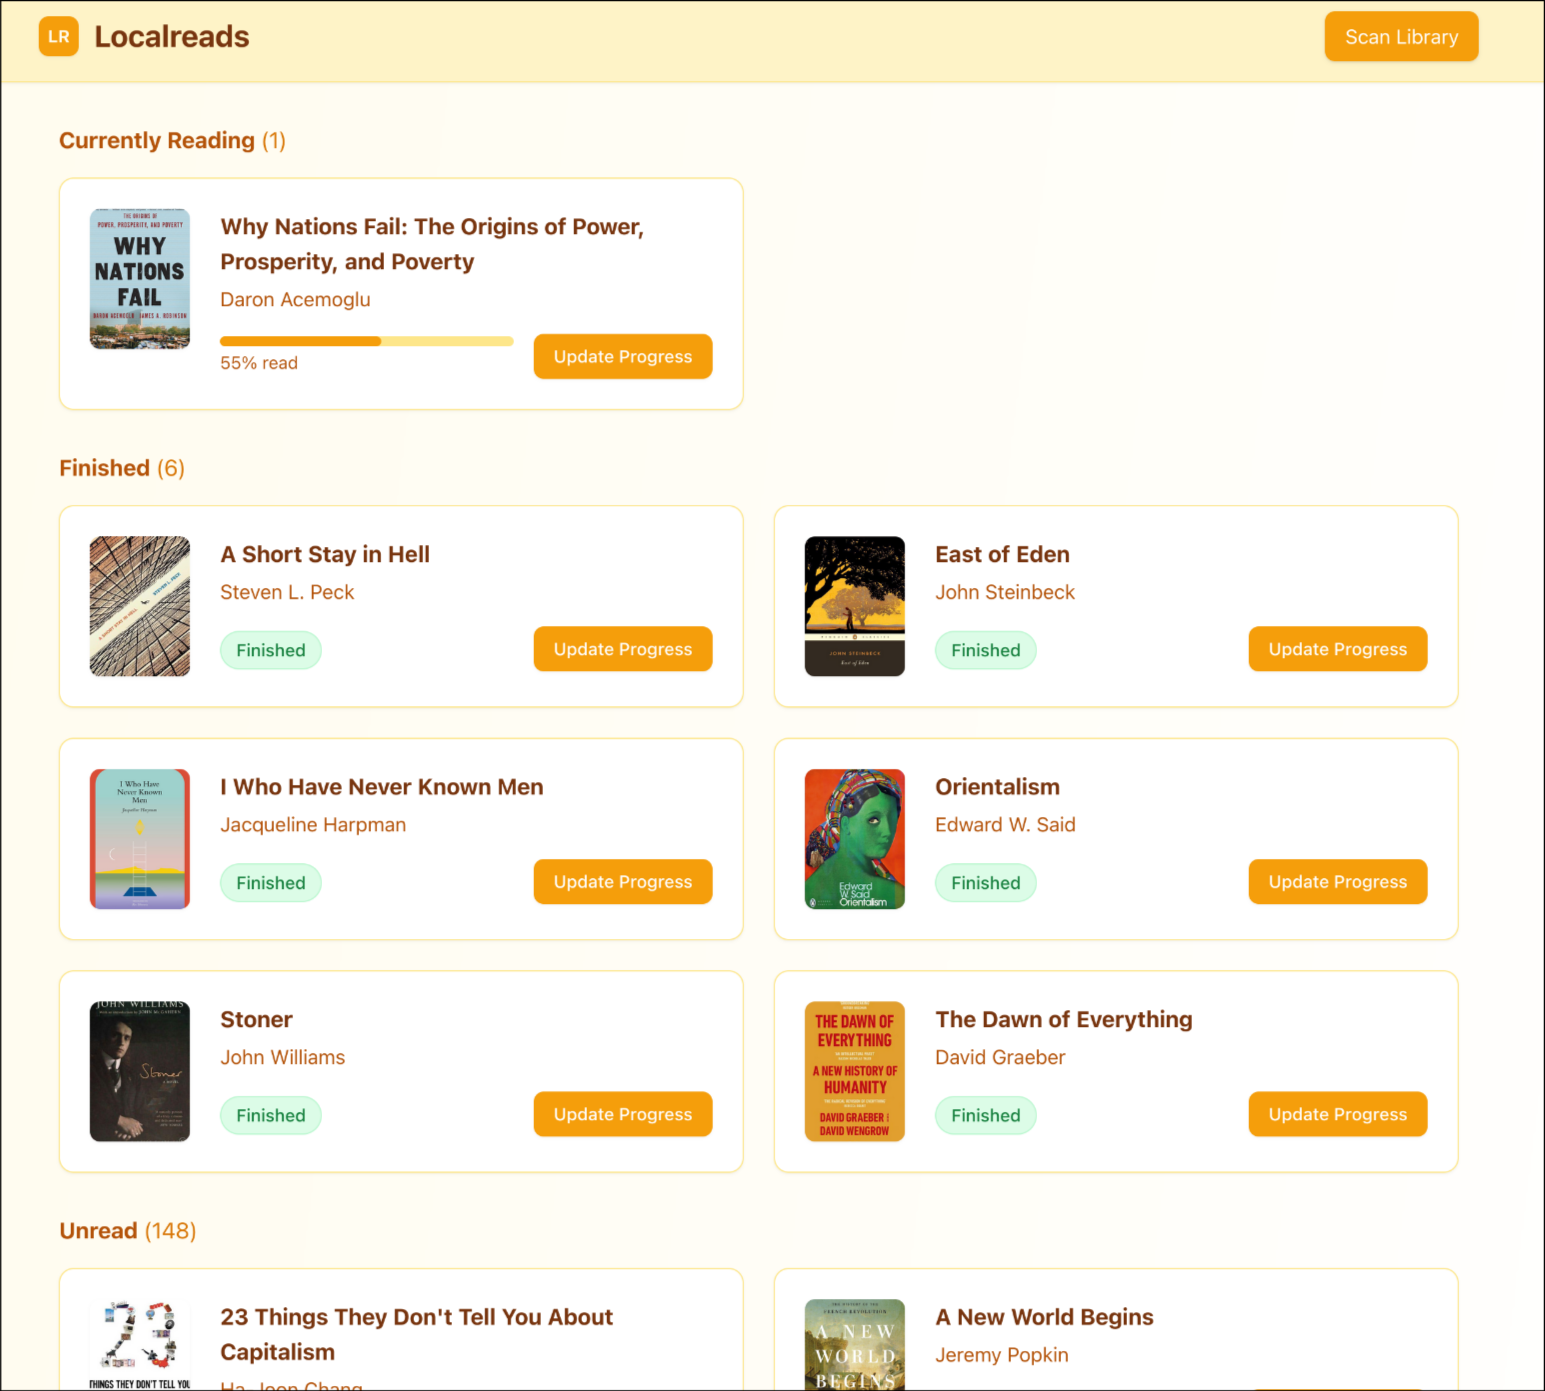
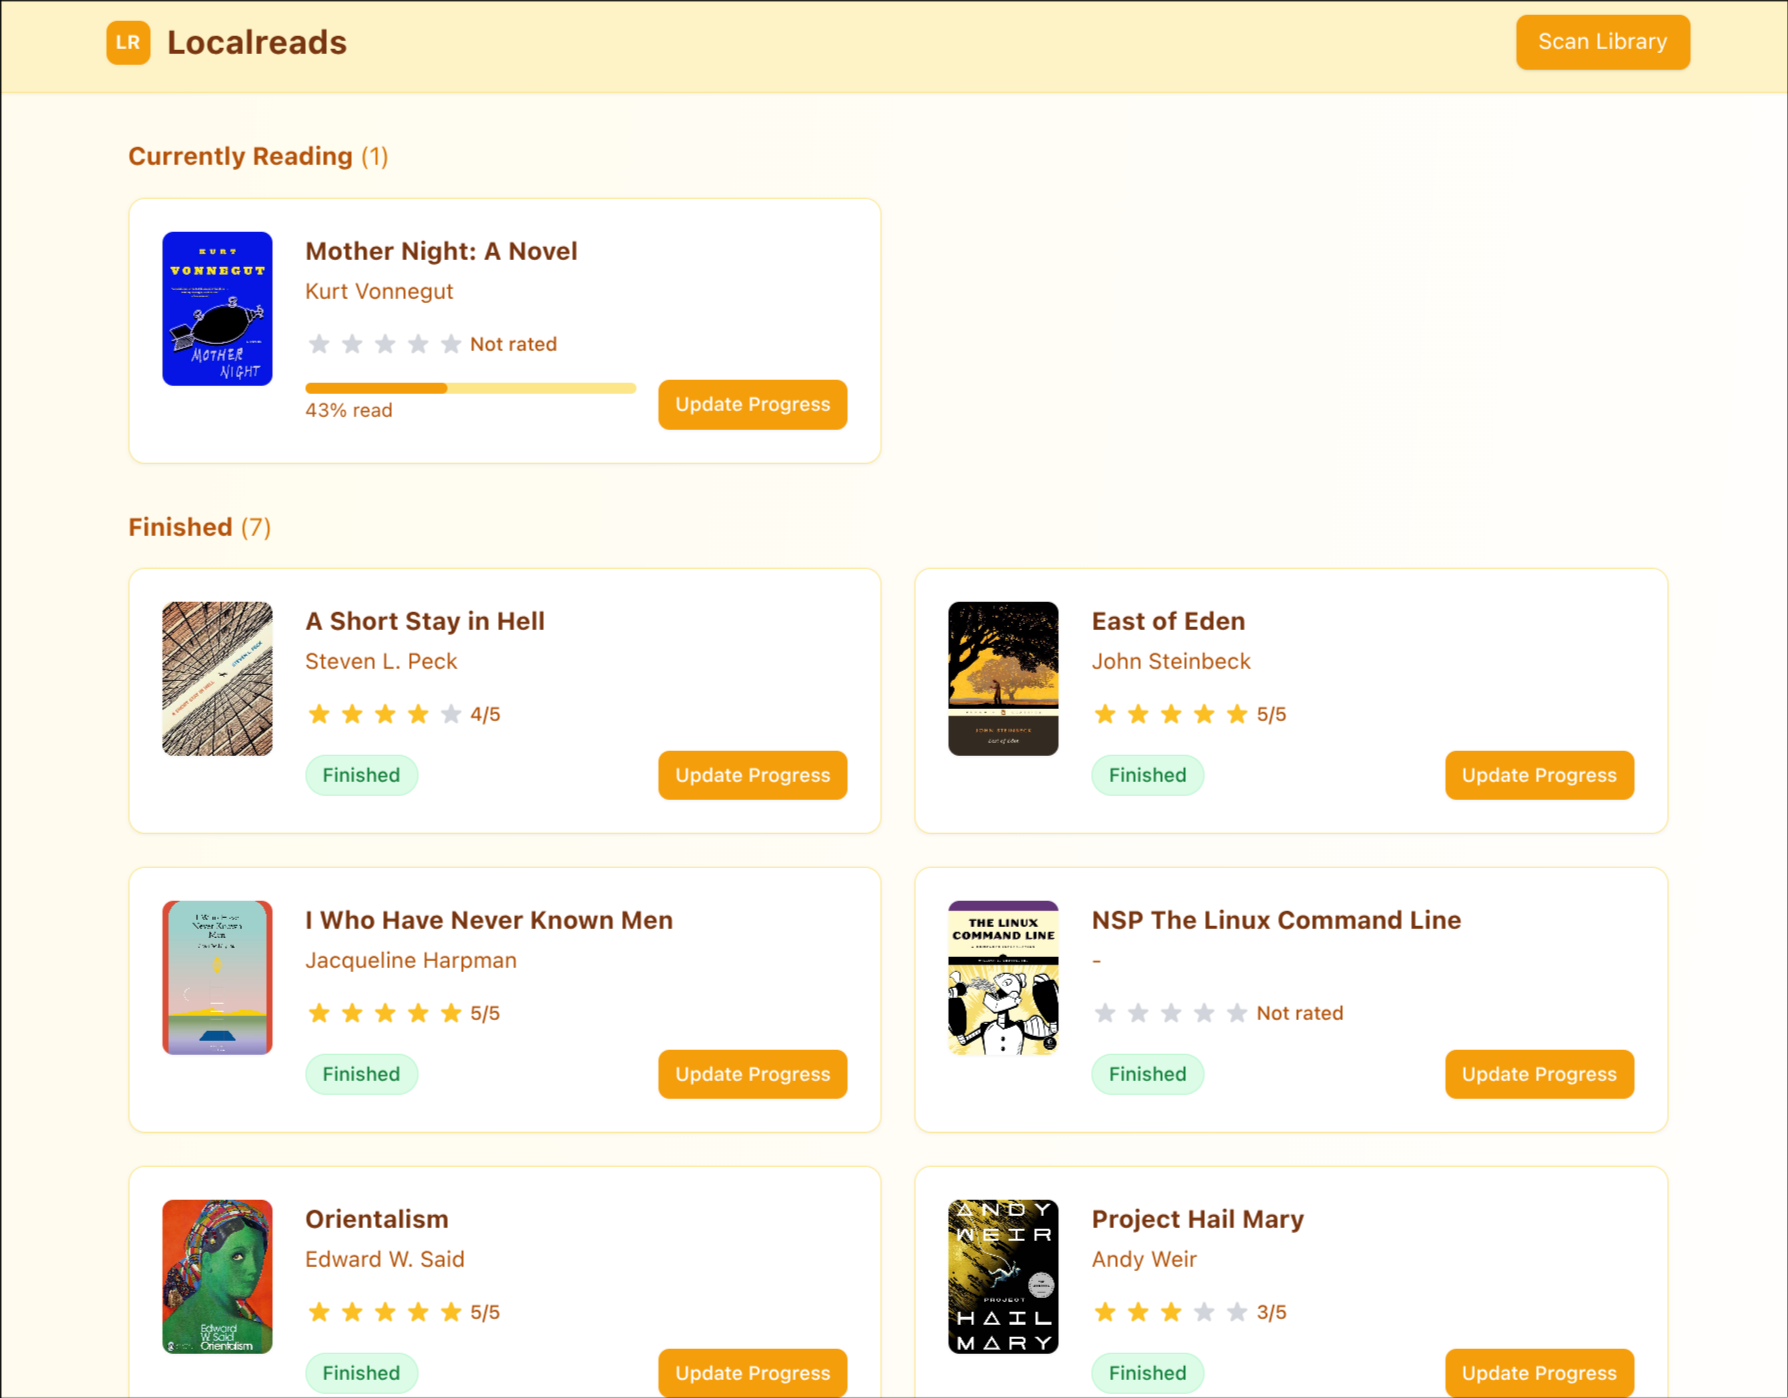
Added new preview imgs

diff --git a/README.md b/README.md
@@ -3,8 +3,8 @@ A simple and local reading-progress tracker.
 
 ---
 <p align="center">
-  <img src="img/image.png" alt="Image 1" width="480"/>
-  <img src="img/IMG_0443.png" alt="Image 2" width="200"/>
+  <img src="img/image.png" alt="Image 1" width="554"/>
+  <img src="img/mobile.png" alt="Image 2" width="200"/>
 </p>
 
 TODOs:
